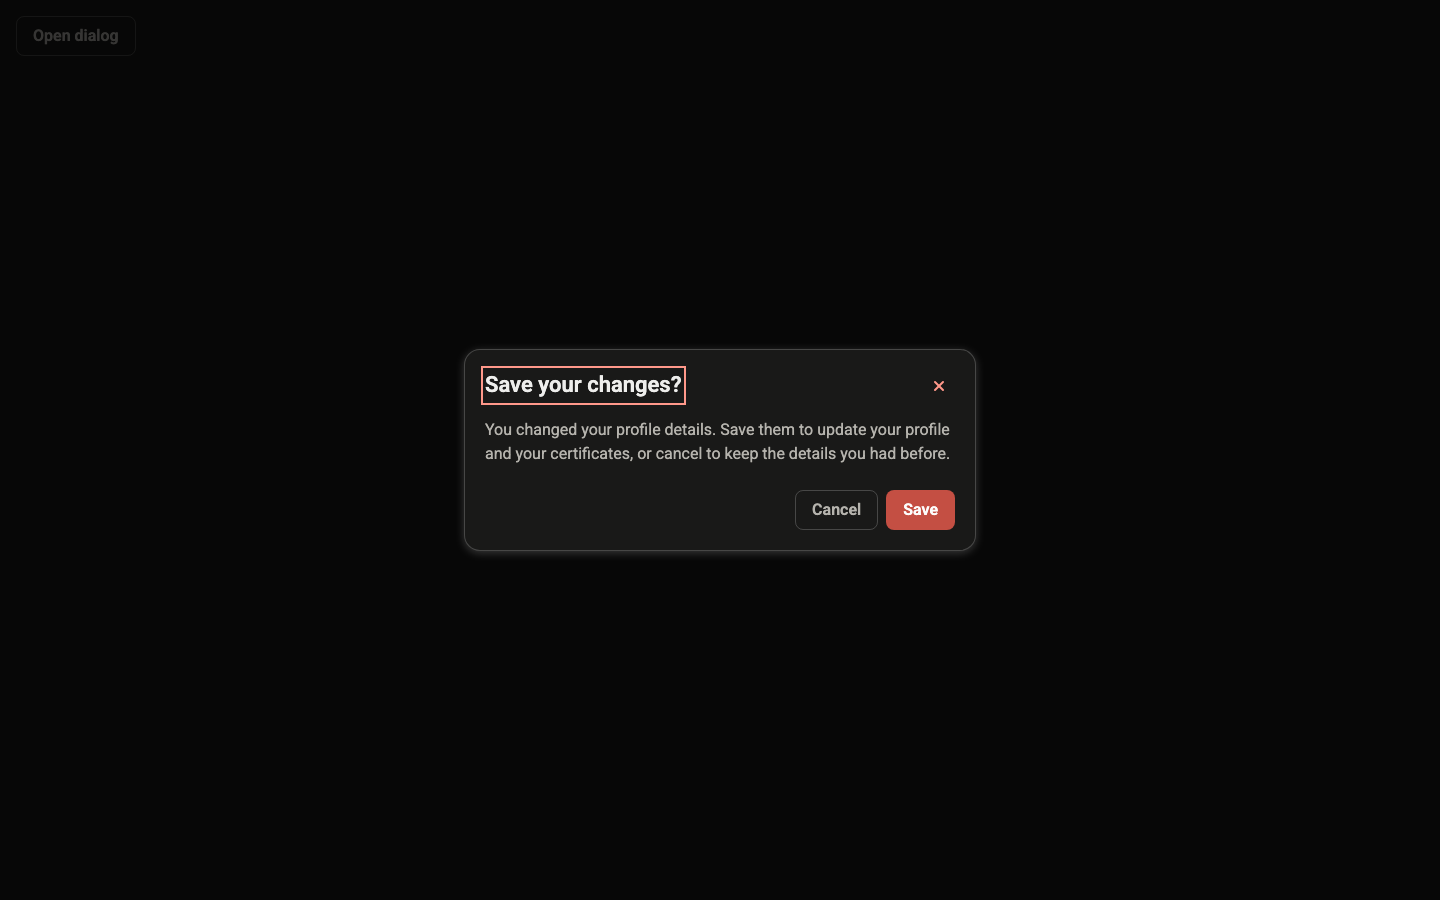
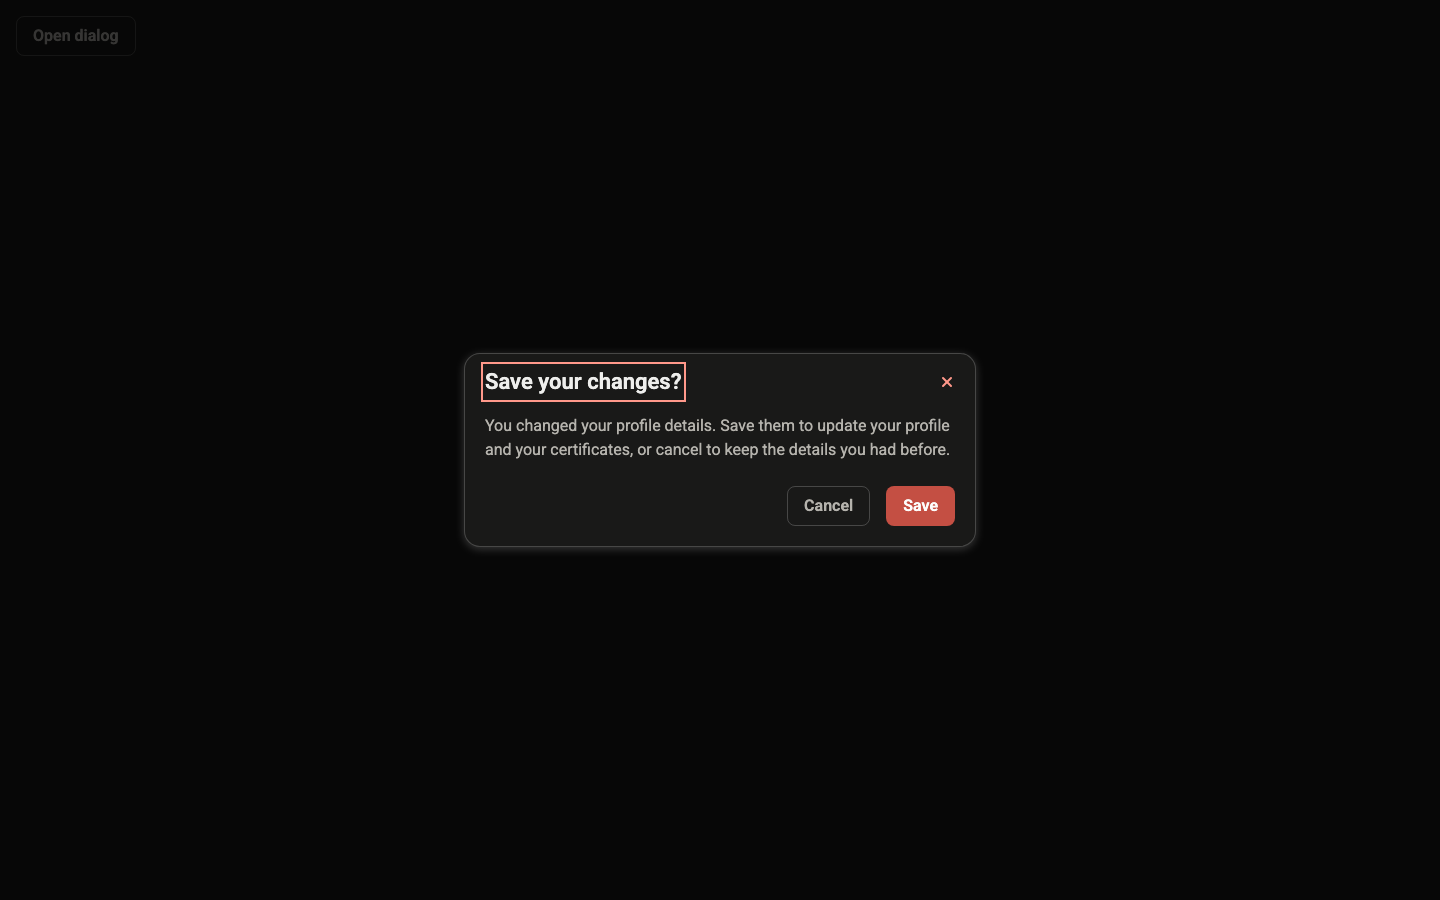
fix(dialog): visual-review fixes for header, padding and actions
- Close: pulled right by space.inset.xs so the x lines up with the content
  edge (MUI IconButton edge technique); Root's top padding reduced by the
  same amount so the x is equidistant from top and right.
- Title: block padding brings its first line to the button's height, so
  the x centres on the first line however the title wraps (Primer Dialog).
- Padding moved from Root onto Header, Description, Body and Actions, so
  Body's scroll box holds its own padding and focus rings are not clipped.
- Description at body-default; Actions gap space.inline.md.
- detail-panel pattern removed for now (stories, usage, waiver).
- Spec styles and decisions updated; Dialog baselines re-approved.
- Visual review recorded as approved; follow-up handoff steps 1-2 ticked.

Changed region(s): [[0.3125, 0.3733, 0.6562, 0.5911]]

diff --git a/packages/components/src/components/Dialog/index.tsx b/packages/components/src/components/Dialog/index.tsx
@@ -102,15 +102,16 @@ export function Dialog({
       data-part="Root"
       aria-labelledby={titleId}
       aria-describedby={description ? descriptionId : undefined}
-      className={[styles.root, nonModal && styles.nonModal, className].filter(Boolean).join(' ')}
+      className={[styles.root, nonModal && styles.nonModal, children && !actions && styles.endsWithBody, className].filter(Boolean).join(' ')}
       onCancel={handleCancel}
       onClose={handleClose}
       onKeyDown={handleKeyDown}
       {...rest}
     >
-      <Inline data-part="Header" justify="space-between" align="start" gap="md" wrap={false}>
+      <Inline data-part="Header" className={styles.header} justify="space-between" align="start" gap="md" wrap={false}>
         <Heading
           data-part="Title"
+          className={styles.title}
           id={titleId}
           as={`h${headingLevel}`}
           size="subheader"
@@ -120,6 +121,7 @@ export function Dialog({
         </Heading>
         <Button
           data-part="Close"
+          className={styles.close}
           variant="transparent"
           size="sm"
           shape="round"
@@ -129,7 +131,7 @@ export function Dialog({
         />
       </Inline>
       {description && (
-        <Text data-part="Description" id={descriptionId} size="body-small" color="subtle">
+        <Text data-part="Description" className={styles.description} id={descriptionId} color="subtle">
           {description}
         </Text>
       )}
@@ -139,7 +141,7 @@ export function Dialog({
         </div>
       )}
       {actions && (
-        <Inline data-part="Actions" className={styles.actions} justify="end" gap="sm">
+        <Inline data-part="Actions" className={styles.actions} justify="end" gap="md">
           {actions}
         </Inline>
       )}

diff --git a/packages/components/src/components/Dialog/Dialog.patterns.stories.tsx b/packages/components/src/components/Dialog/Dialog.patterns.stories.tsx
@@ -1,12 +1,8 @@
 import { useState } from 'react'
 import type { Meta, StoryObj } from '@storybook/react'
-import { Badge } from '../Badge'
 import { Button } from '../Button'
-import { Inline } from '../Inline'
 import { Stack } from '../Stack'
-import { Text } from '../Text'
 import { TextField } from '../TextField'
-import { TextLink } from '../TextLink'
 import { Dialog } from './index'
 
 const meta: Meta<typeof Dialog> = {
@@ -72,28 +68,4 @@ function EditFormExample() {
 
 export const EditForm: Story = {
   render: () => <EditFormExample />,
-}
-
-function DetailPanelExample() {
-  const [open, setOpen] = useState(true)
-  return (
-    <Inline gap="lg" align="start" wrap={false}>
-      <Dialog nonModal open={open} onOpenChange={setOpen} title="Token build" headingLevel={3}>
-        <Stack gap="sm" align="start">
-          <Text color="subtle">
-            Style Dictionary turns the DTCG source into CSS custom properties and JS constants.
-          </Text>
-          <Badge variant="filled">Passing</Badge>
-          <TextLink href="#">View run on GitHub</TextLink>
-        </Stack>
-      </Dialog>
-      <Button variant="neutral" aria-expanded={open} onClick={() => setOpen((v) => !v)}>
-        Token build
-      </Button>
-    </Inline>
-  )
-}
-
-export const DetailPanel: Story = {
-  render: () => <DetailPanelExample />,
 }

diff --git a/packages/components/src/components/Dialog/Dialog.module.css b/packages/components/src/components/Dialog/Dialog.module.css
@@ -4,8 +4,8 @@
   max-width: calc(100% - 2 * var(--ds-space-inset-md));
   max-height: calc(100% - 2 * var(--ds-space-inset-md));
   margin: auto;
-  padding: var(--ds-space-inset-lg);
-  gap: var(--ds-space-stack-md);
+  padding-block: calc(var(--ds-space-inset-lg) - var(--ds-space-inset-xs)) var(--ds-space-inset-lg);
+  padding-inline: 0;
   background: var(--ds-color-background-container-elevated);
   color: var(--ds-color-text-default);
   border: 1px solid var(--ds-color-border-subtle);
@@ -28,12 +28,43 @@
   max-width: 100%;
 }
 
+.header,
+.description,
 .actions {
+  padding-inline: var(--ds-space-inset-lg);
+}
+
+.description {
+  padding-top: var(--ds-space-stack-md);
+}
+
+.actions {
+  padding-top: var(--ds-space-stack-lg);
+}
+
+.body + .actions {
   padding-top: calc(var(--ds-space-stack-lg) - var(--ds-space-stack-md));
 }
 
 .body {
   min-height: 0;
+  padding: var(--ds-space-stack-md) var(--ds-space-inset-lg);
   overflow-y: auto;
   overscroll-behavior: contain;
+}
+
+.endsWithBody {
+  padding-block-end: 0;
+}
+
+.endsWithBody .body {
+  padding-block-end: var(--ds-space-inset-lg);
+}
+
+.title {
+  padding-block: calc((var(--ds-size-400) - var(--ds-font-size-subheader) * var(--ds-font-line-height-default)) / 2);
+}
+
+.close {
+  margin-inline-end: calc(-1 * var(--ds-space-inset-xs));
 }

diff --git a/.claude/handoff/2026-11-13-dialog-follow-ups.handoff.md b/.claude/handoff/2026-11-13-dialog-follow-ups.handoff.md
@@ -14,11 +14,11 @@ Dialog (Phase 5e, ADR-031) shipped through `/add-component` → `/review-compone
 
 Tick an item when its "Done when" is met, and add the date and PR or commit.
 
-- [ ] 1. Back-fill the review findings (`/extract-learnings Dialog`)
-- [ ] 2. Browser check that the page behind the modal is inert, and record the visual review
+- [x] 1. Back-fill the review findings (`/extract-learnings Dialog`) — 2026-11-14, PR #175
+- [x] 2. Browser check that the page behind the modal is inert, and record the visual review — 2026-11-16, approved after fixes on `component/dialog-visual-review`
 - [ ] 3. Push the new tokens to Airtable
 - [ ] 4. Push the new tokens to Figma as variables
-- [ ] 5. Build Dialog in Figma, capture the pattern frames, delete the 3 waivers
+- [ ] 5. Build Dialog in Figma, capture the pattern frames, delete the 2 waivers
 - [ ] 6. Refresh the status files and mark Dialog done in the roadmap
 
 ## 1 · Back-fill the review findings
@@ -39,6 +39,8 @@ jsdom can't emulate `showModal()` inertness or the top layer, so no test covers 
 - The scrim shows in both light and dark (`data-theme`).
 - `NonModal`: the page stays interactive and Escape closes the dialog.
 - Opening with the mouse shows no focus ring on the Title; opening from the keyboard shows the ring (intended, ADR-028).
+
+**2026-11-16 status:** headless Chromium passed every check above. Visual review came back `changes-requested` (Close glyph inset from the content edge; edit-form focus ring clipped by Body). Fixed on branch `component/dialog-visual-review`: Close pulled out by `space.inset.xs`, padding moved from Root onto the parts so Body's scroll box holds its own padding, Title padded to the button's height so the x centres on its first line (Primer's approach), Root's top padding reduced by `space.inset.xs` so the x is equidistant from top and right, Description at `body-default` like Body text, Actions gap widened to `space.inline.md`, and the `detail-panel` pattern removed for now at the developer's request. The Body scrollbar stays at the dialog edge (as in MUI and Primer). The visual review was then recorded as `approved`.
 
 Record the answer as `/add-component` Stage 2c describes: `"visualReview": { "status": "approved" | "changes-requested", "comments": …, "at": "<iso>" }` under Dialog in `.claude/component-review-state.json`. If something fails, file an issue (or fix it on a `component/dialog-*` branch with a PR) instead of approving.
 
@@ -70,18 +72,18 @@ Run `/figma-variable-push`, which uses figma-cli and pins `FIGMA_FILE="Upskill -
 Dialog was built code-first. Build in the Figma file, following ADR-023 and ADR-026's Figma mappings:
 
 - A **Dialog** component set mirroring the code props: `Has description` and `Non-modal` booleans; `Title`, `Description`, `Body` and `Actions` layers named as the spec's `anatomy` parts (`Root`, `Header`, `Title`, `Close`, `Description`, `Body`, `Actions`). Bind fills, padding, radius and width to the variables from step 4.
-- A **Dialog examples** section with one frame per `composition.patterns` id, built from instances only: `confirm-action`, `edit-form`, `detail-panel`. The code for each is the same-named export in `Dialog.patterns.stories.tsx`.
+- A **Dialog examples** section with one frame per `composition.patterns` id, built from instances only: `confirm-action`, `edit-form` (`detail-panel` was removed on 2026-11-16). The code for each is the same-named export in `Dialog.patterns.stories.tsx`.
 
-Then run `node scripts/capture-pattern-frames.js` (figma-cli) and delete the three Dialog entries from `scripts/figma-pattern-frame-waivers.json`. `usage:validate` fails on a waiver whose frame exists, so it confirms the deletion.
+Then run `node scripts/capture-pattern-frames.js` (figma-cli) and delete the two Dialog entries from `scripts/figma-pattern-frame-waivers.json`. `usage:validate` fails on a waiver whose frame exists, so it confirms the deletion.
 
-**Done when:** `usage:validate` passes with `waivers: []` and `packages/components/figma-pattern-frames.json` lists the three frames.
+**Done when:** `usage:validate` passes with `waivers: []` and `packages/components/figma-pattern-frames.json` lists the two frames.
 
 ## 6 · Status files and roadmap
 
 - `npm run sense` so `component-pipeline.json` and `STATUS_QUO.md` include Dialog with its review and visual-review state.
 - `npm run airtable:push:components` for Dialog's maturity. The human `Implementation` value (`done`) is set by hand in Airtable and pulled back with `npm run airtable:pull:governance`.
 - `ROADMAP.md`: in the Phase 5e row (`Coverage gaps (5e, ADR-031)`), mark Dialog as shipped (#171). Phase 5 stays in progress until Table, Alert and Pagination ship too.
-- ADR-031 says the motivating page is migrated "in the same PR or the one right after": move `apps/showcase/src/pipeline/PipelineDetailPanel.tsx` onto Dialog. It is not in #171, so it's due now. Run `/layout-generation`, or do it as a plain edit with `npm run layout:validate`.
+- ADR-031 says the motivating page is migrated "in the same PR or the one right after": move `apps/showcase/src/pipeline/PipelineDetailPanel.tsx` onto Dialog. It is not in #171, so it's due now. Run `/layout-generation`, or do it as a plain edit with `npm run layout:validate`. **Open question (2026-11-16):** the `detail-panel` pattern that documented this composition was removed, so first decide whether to restore it with this migration or drop the migration.
 - Touching `ROADMAP.md` will likely make `docs/00-start-here.md` stale again. Commit a clock-reset comment in its frontmatter in the same PR (see the docs-check coupling convention).
 
 **Done when:** `npm run status:component -- Dialog` shows it done, the roadmap row is updated, and the pipeline panel uses Dialog.

diff --git a/.claude/STATUS_QUO.md b/.claude/STATUS_QUO.md
@@ -4,7 +4,7 @@
 > readable baseline aggregating the committed frozen-memory files. Loop agents
 > read this instead of calling Airtable or Figma live.
 
-Generated: **2026-11-13T17:28:23.555Z**
+Generated: **2026-11-16T15:19:10.987Z**
 
 Sources:
 - `packages/tokens/airtable-governance.json` (Airtable mirror)
@@ -25,7 +25,7 @@ None. No deprecated token has a live reference. ✅
 
 - **28 total** — Maturity: 28 beta
 - By type: container (2) · display (9) · input (3) · interactive (10) · layout (4)
-- Implementation: 0 done · 25 in review · 3 in progress (3 unreviewed) · 0 todo
+- Implementation: 0 done · 26 in review · 2 in progress (2 unreviewed) · 0 todo
 - Source: `packages/components/src/components/*/*.usage.json` + `.claude/handoff/runs/` + `.claude/component-signoff.json` (human `done`/`todo` from Airtable)
 
 ### In review — checklist open, awaiting human sign-off
@@ -54,6 +54,7 @@ standard path (in-session /code-review).
 | `CardVertical` (interactive) | full | ☐ | ✅ | ✅ |
 | `Checkbox` (input) | full | ☐ | ✅ | ✅ |
 | `Chip` (interactive) | full | ☐ | ✅ | ✅ |
+| `Dialog` (interactive) | full | ✅ | ✅ | ✅ |
 | `Divider` (display) | standard | ☐ | ✅ | n/a |
 | `DropdownMenu` (interactive) | full | ☐ | ✅ | ✅ |
 | `Heading` (display) | full | ☐ | ✅ | ✅ |
@@ -76,7 +77,6 @@ entered the loop (the old "established" backlog) — candidates to harden with
 `.run.json` is open with no render checkpoint yet.
 
 - `Button` — maturity `beta` · unreviewed
-- `Dialog` — maturity `beta` · unreviewed
 - `Select` — maturity `beta` · unreviewed
 
 ### Beta (not production-ready)
@@ -96,7 +96,7 @@ None. All review findings have been back-filled. ✅
 ## Figma drift
 
 - Snapshot captured: **2026-10-11** (interactive Figma MCP — not script-regenerable, ADR-002)
-- Age: **33 day(s)** ⚠ stale (> 30d — recapture before relying on drift)
+- Age: **36 day(s)** ⚠ stale (> 30d — recapture before relying on drift)
 - Variables mirrored: **474** (Primitives 292 · Theme 116 · Device 66)
 - Excluded as **representational divergences** (unitless line-heights Figma stores as px — not drift): **27**
 
